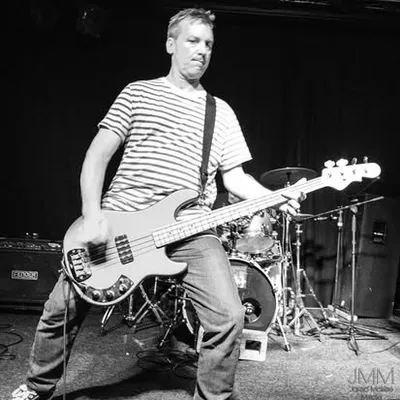
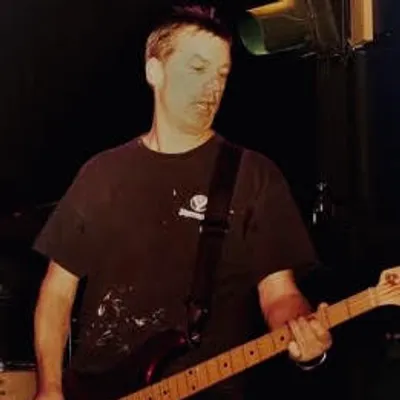
Updated Robs band member photo
Updated Robs band member photo

diff --git a/index.html b/index.html
@@ -196,7 +196,7 @@
                             <img src="./assets/img/bandMembers/robBass2026.webp"
                                 class="about-member-photo"
                                 width="400" height="400"
-                                alt="Rob playing bass on stage in a striped shirt"
+                                alt="Rob playing a dark bass on stage in a black t-shirt"
                                 style="object-position: center;">
                             <h2 class="about-member-name">Rob</h2>
                             <p class="about-member-role">Bass Player</p>
